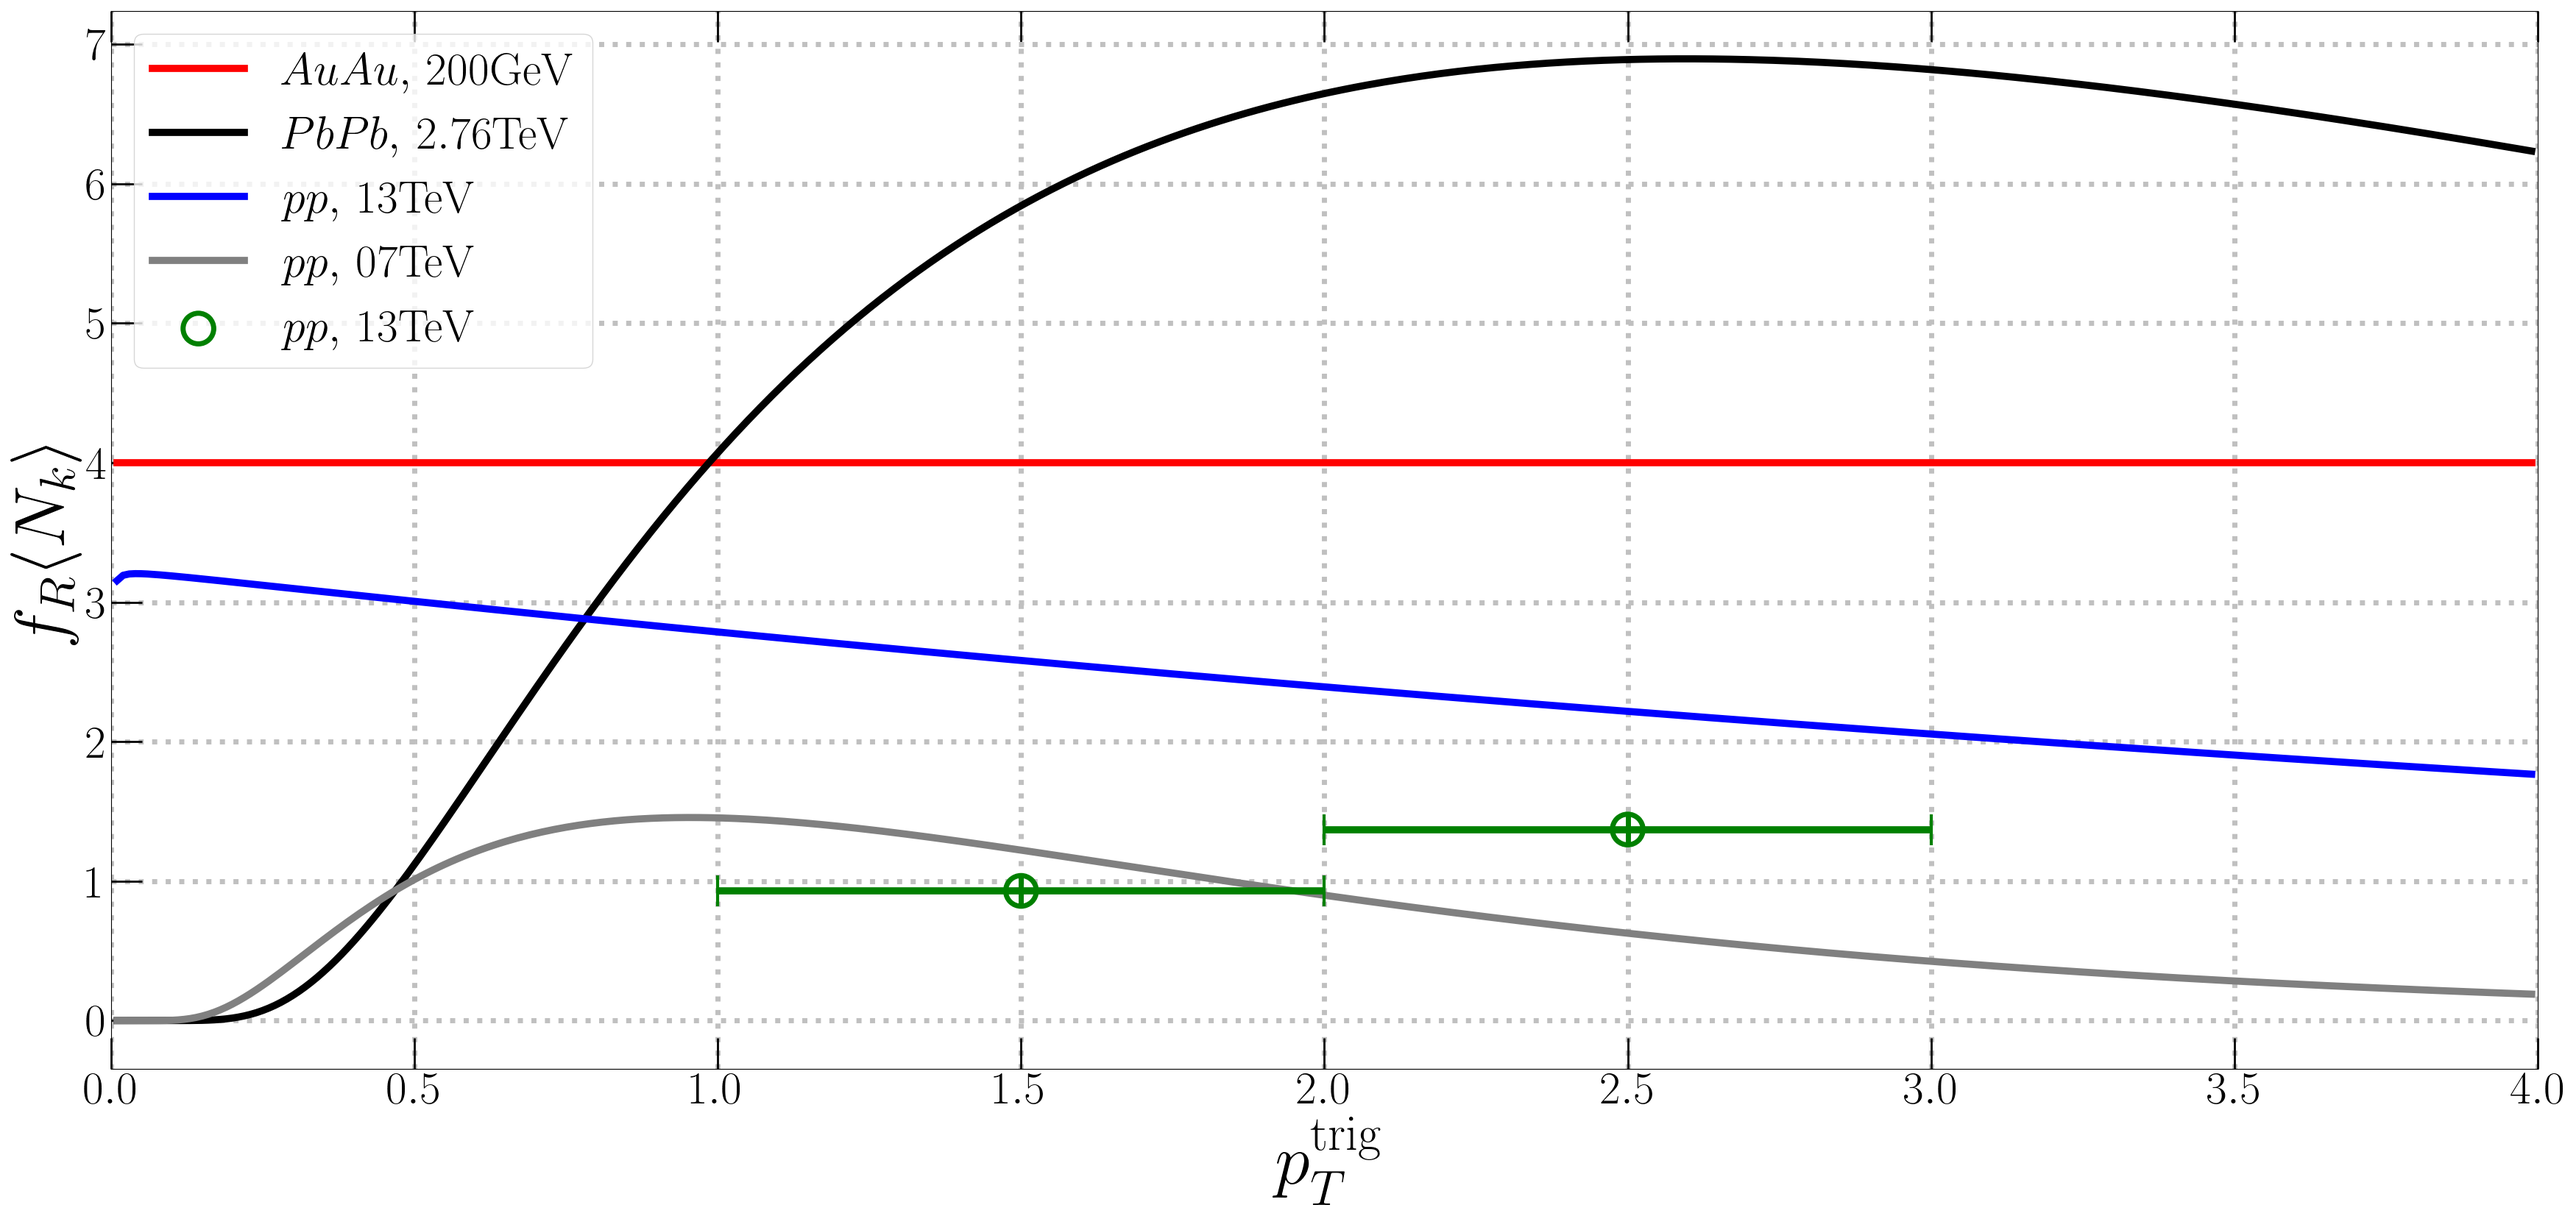
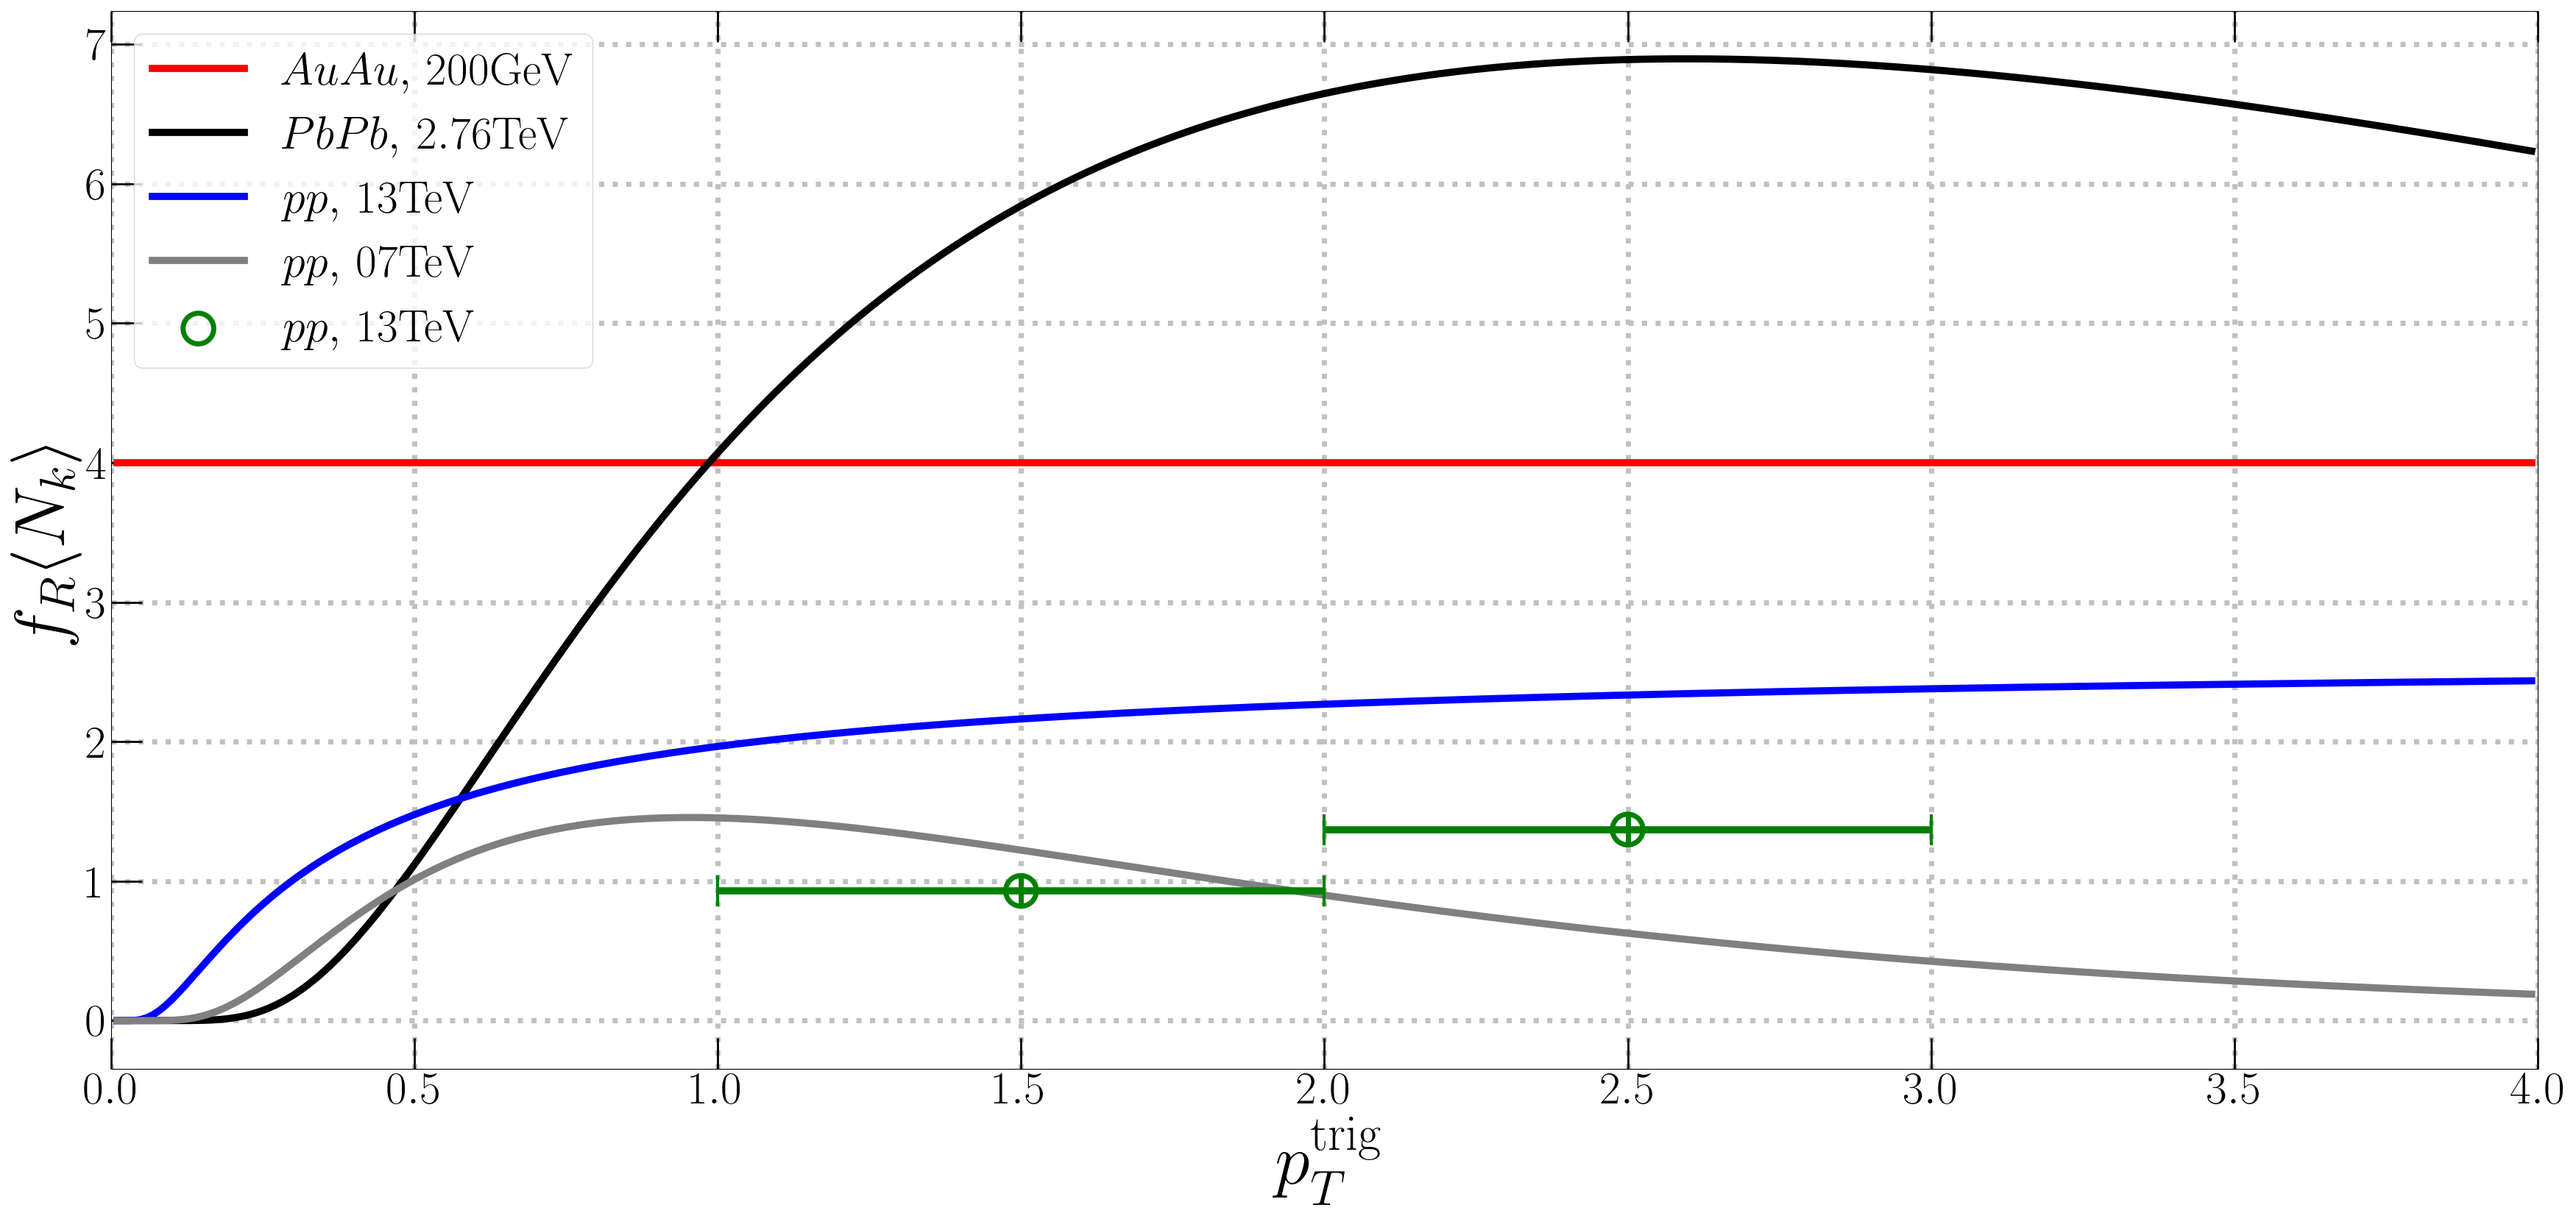
pp 13TeV high multiplicity
T를 고정하여 다양한 multiplicity fitting

diff --git a/main_class.py b/main_class.py
@@ -299,15 +299,15 @@ datacut()
 
 ptdep_result = []
 # ptdep_result = [1.04435586e+00, 1.39798449e+00, 3.13646871e+00, 4.16055192e-05, 1.39096183e-01]
-# ptdep_result = [9.62260664e-01, 1.08168335e+00, 2.61768147e+00, 2.84798146e-01, 4.17974797e-04]
+ptdep_result = [9.61957351e-01, 1.08075125e+00, 2.61749651e+00, 2.86233547e-01, 2.95346210e-06]
 ptdep_result_07 = []
 ptdep_result_cm = []
 ptdep_error_cm = []
 multi_atlas_result = []
 ptdep_Rsq = []
 
-total_boundary = ((0.5, 1., 0, 0, 0),(5, 4., 5, 10, 10))
-total_initial = (4.,  2., 1.5, 0, 0)
+total_boundary = ((0.5, 1., 0, 0, 0),(5, 4., 10, 10, 10))
+total_initial = (1.5,  2., 5., 0, 0)
 '''Fitting 13TeV data'''
 def fit_13tev():
     ptf = [(1, 2), (2, 3), (3, 4), (1, 2), (2, 3), (3, 4)]
@@ -422,9 +422,9 @@ def fit_cmenerg():
     print(ptdep_error_cm)
 
 
-fit_13tev()
+# fit_13tev()
 # fit_7tev()
-# fit_multipl()
+fit_multipl()
 # fit_cmenerg()
 # fit_multipl()
 
@@ -753,9 +753,10 @@ def drawgraph_multi_phicorr():
     ax1.set_xlabel(r'$N^{\mathrm{rec}}_{\mathrm{ch}}$',size=70)
     ax1.set_xlim(50, 140)
     ax1.set_ylabel(r'$ q(\mathrm{GeV}) $',size=70)
-    ax1.set_ylim(0.3, 2.2)
+    ax1.set_ylim(0.3, 1.8)
     ax2.set_ylabel(r'$ T(\mathrm{GeV}) $',size=70)
-    ax2.set_ylim(1.325, 1.7)
+    # ax2.set_ylim(1.325, 1.7)      # T 기준을 AuAu 200GeV로 할 경우
+    ax2.set_ylim(1.01, 1.16)        # T 기준을 pp 13TeV로 할 경우
 
     ax1.yaxis.set_major_formatter(ticker.FuncFormatter(lambda y, _: '${:g}$'.format(y)))
     ax1.tick_params(axis='both',which='major',direction='in',width=2,length=30,labelsize=45, top='true')
@@ -773,19 +774,19 @@ def drawgraph_multi_phicorr():
     plt.tight_layout()
     fig1.savefig('./parameters_multiplicity_dep.png')
 
-drawgraph_ptdep_phicorr()
+# drawgraph_ptdep_phicorr()
 time_phicorr = time.time()
 print(f"Graph, Phi correlation end : {time_phicorr-time_calculate:.3f} sec")
-drawgraph_ptdep_Yridge()
+# drawgraph_ptdep_Yridge()
 time_yridge = time.time()
 print(f"Graph, Yridge end : {time_yridge-time_phicorr:.3f} sec")
-drawgraph_ptdep_frnk()
+# drawgraph_ptdep_frnk()
 time_frnk = time.time()
 print(f"FrNk end : {time_frnk-time_yridge:.3f} sec")
 # drawgraph_cmdep_phicorr()
 time_multi = time.time()
 print(f"Graph, Multiplicity end : {time_multi-time_frnk:.3f} sec")
-# drawgraph_multi_phicorr()
+drawgraph_multi_phicorr()
 
 time_end = time.time()
 print(f"Total end : {time_end-time_start:.3f} sec")

diff --git a/class_pool.py b/class_pool.py
@@ -283,9 +283,12 @@ class Fitting_gpu:
 
     def Fixed_Temp(multi, meanpT):
         # AuAu : 200GeV
-        AuAu_meanpT = 0.39
-        AuAu_Temp = 0.5
-        return (meanpT/AuAu_meanpT)*AuAu_Temp
+        # AuAu_meanpT = 0.39
+        # AuAu_Temp = 0.5
+        pp13_highmulti_meanpT = 1.186
+        pp13_highmulti_Temp = 1.08075125
+        # return (meanpT/AuAu_meanpT)*AuAu_Temp
+        return (meanpT/pp13_highmulti_meanpT)*pp13_highmulti_Temp
 
 
 
